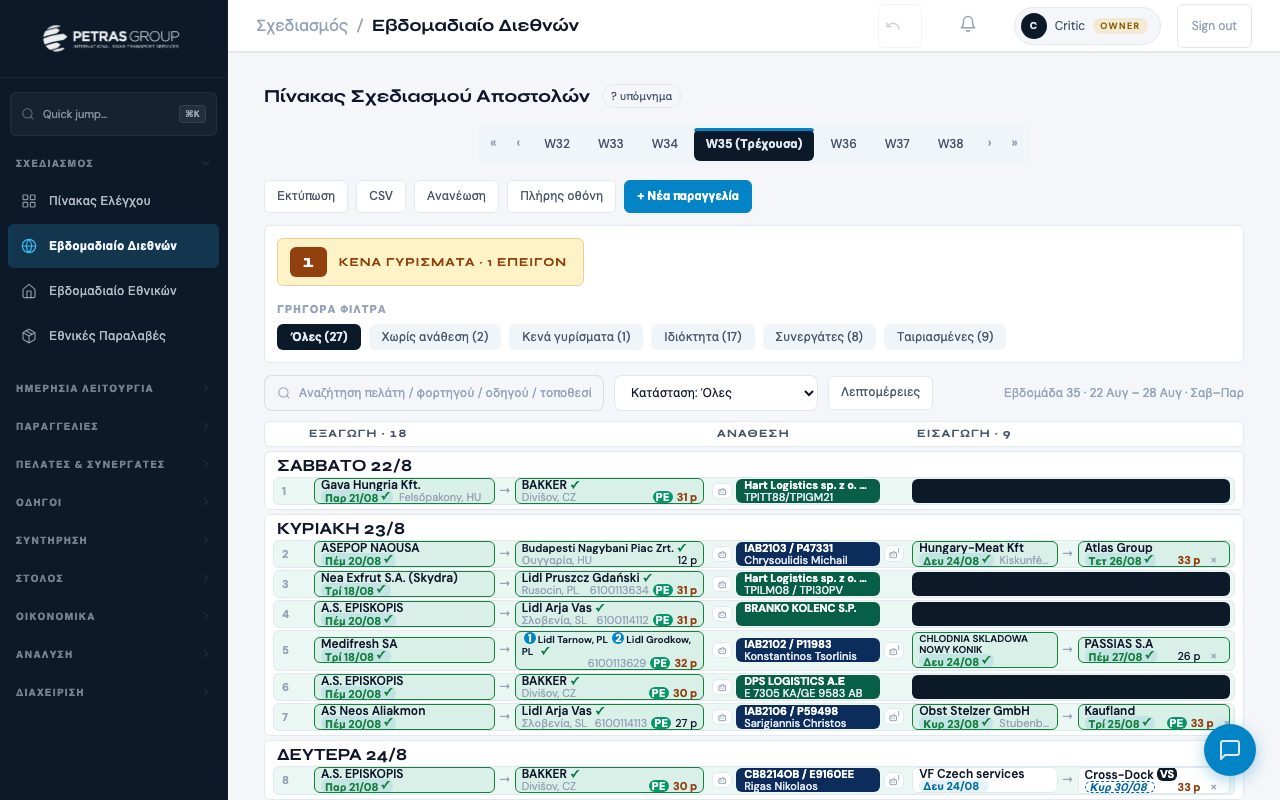
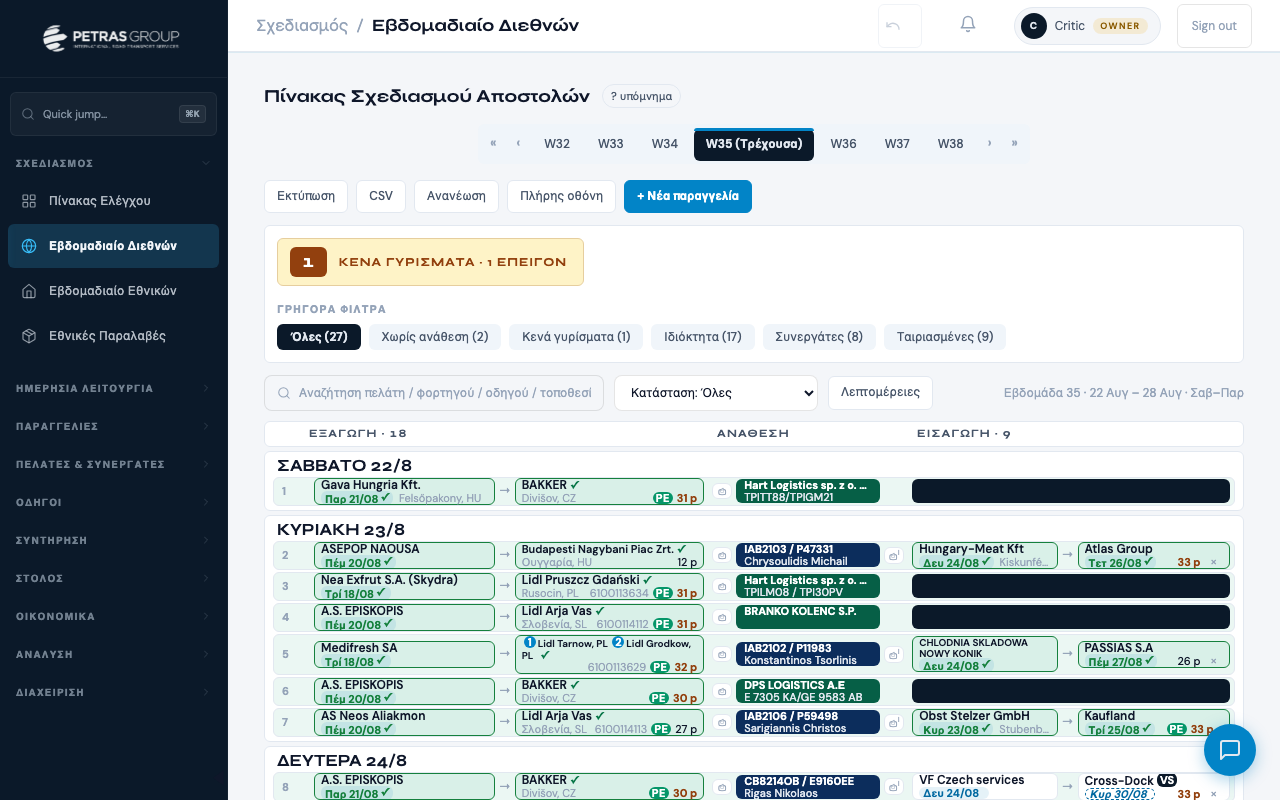
weekly_intl: όνομα με 1px περιθώριο για ουρές γραμμάτων (ελεγκτής P2)
Ο ανεξάρτητος ελεγκτής (P2): .wi2-name με line-height ίσο με το μέγεθος και
overflow:hidden κόβει ουρές ρ φ χ ψ y — επιβεβαιώθηκε σε μεγέθυνση 3x.
line-height 12→13px (γραμμή 28→29px). Αφαιρέθηκε και η κλάση .empty της
ημέρας, που έμεινε χωρίς κανόνα. Rig: πλήρεις γραμμές 7/11/15
(1280/1440/1920) έναντι 2/7/9 σήμερα.

Changed region(s): [[0.2188, 0.5938, 0.9688, 1.0]]

diff --git a/modules/weekly_intl.js b/modules/weekly_intl.js
@@ -303,9 +303,10 @@ const _WI2_CSS=`
 .wk3.wi2 .wk3-dayh .now{font:700 11px 'DM Sans',sans-serif;letter-spacing:1px;color:var(--surface-card);background:var(--accent);border:none;border-radius:var(--radius-full);padding:0 8px;line-height:16px}
 .wi2-none{font-size:11px;color:var(--text-dim);padding:4px 4px 0;font-style:italic}
 /* ΠΥΚΝΟΤΗΤΑ (owner 27/9, «dense»): περισσότερες γραμμές ανά οθόνη — οι
-   οθόνες των dispatchers είναι φαρδιές, όχι ψηλές. Γραμμή 44→28px: γραμμή 1px
-   + κάρτα 1px πάνω/κάτω, χωρίς padding, περιεχόμενο 24px = όνομα 12px +
-   σειρά μεταδεδομένων 12px. ΔΥΟ σειρές παραμένουν (owner): η μία σειρά θα
+   οθόνες των dispatchers είναι φαρδιές, όχι ψηλές. Γραμμή 44→29px: γραμμή 1px
+   + κάρτα 1px πάνω/κάτω, χωρίς padding, περιεχόμενο 25px = όνομα 13px (12px
+   γράμματα + 1px ώστε οι ουρές ρ φ χ ψ να μην κόβονται από το overflow:hidden)
+   + σειρά μεταδεδομένων 12px. ΔΥΟ σειρές παραμένουν (owner): η μία σειρά θα
    έκοβε πόλη/ημερομηνία/παλέτες. Μετρήθηκε στο rig: 1440×900 7→11 πλήρεις
    γραμμές, 1920×1080 9→15. Κάτω από 11px δεν κατεβαίνει τίποτα εκτός από την
    κλιμάκωση ονόματος της _wi2Balance. Κάθε padding εδώ είναι μετρημένο. */
@@ -377,7 +378,7 @@ const _WI2_CSS=`
    _wi2Balance κατεβάζει ΜΟΝΟ αυτό το όνομα ως 10px· αν ούτε έτσι, .clamp
    (δύο σειρές με ορατό «…» + title). Το ellipsis εδώ είναι δίχτυ, όχι
    σχέδιο: ποτέ σιωπηλή κοπή (Κ6), ακόμη και πριν προλάβει η μέτρηση. */
-.wi2-name{font-size:12px;line-height:12px;font-weight:600;color:var(--text);white-space:nowrap;overflow:hidden;text-overflow:ellipsis}
+.wi2-name{font-size:12px;line-height:13px;font-weight:600;color:var(--text);white-space:nowrap;overflow:hidden;text-overflow:ellipsis}
 .wi2-name>*{margin-right:4px}
 .wi2-name.clamp{white-space:normal;overflow-wrap:break-word;display:-webkit-box;-webkit-line-clamp:2;-webkit-box-orient:vertical;line-height:1.1}
 .wk3.wi2.wi2-measure .wi2-name,.wk3.wi2.wi2-measure .wi2-sub{white-space:nowrap;display:block;overflow:visible}
@@ -412,7 +413,7 @@ const _WI2_CSS=`
 .wk3.wi2 .wk3-assign>:not(.wk3-prt){grid-column:2;min-width:0}
 /* ΑΝΑΘΕΣΗ — χρώμα ΚΑΙ λέξη (DESIGN ΜΕΡΟΣ Ε, owner 4/9): «ΙΔ.» / «ΣΥΝ.» /
    «ΠΡΟΣ ΑΝΑΘΕΣΗ». Δύο σειρές με ορατό «…» και title — όχι αναδίπλωση, γιατί
-   μια τρίτη σειρά σπάει το ύψος γραμμής των 28px (27/9). */
+   μια τρίτη σειρά σπάει το ύψος γραμμής των 29px (27/9). */
 .wk3.wi2 .wk3-pill{height:auto;min-height:24px;flex-direction:column;align-items:flex-start;justify-content:center;gap:0;padding:0 8px;font-size:12px;line-height:12px;border-radius:var(--radius);white-space:nowrap;overflow:hidden;box-sizing:border-box;transform:none;box-shadow:none}
 .wk3.wi2 .wk3-row:hover .wk3-pill{transform:none;box-shadow:none}
 .wk3.wi2 .wk3-pill .t,.wk3.wi2 .wk3-pill small{display:block;max-width:100%;white-space:nowrap;overflow:hidden;text-overflow:ellipsis}
@@ -1124,7 +1125,7 @@ function _wiAllRowsHTML(){
     // Day counters (frame 368:966): what the day owes, in words
     const gExp=grp.exps.length;
     const empty=!gExp&&!showImps.length;
-    html+=`<section class="wi2-day${isToday?' today':''}${empty?' empty':''}" data-day="${grp.rawDate}">
+    html+=`<section class="wi2-day${isToday?' today':''}" data-day="${grp.rawDate}">
       <div class="wk3-dayh${isToday?' today':''}"><span class="d">${wd||'ΧΩΡΙΣ ΗΜΕΡΟΜΗΝΙΑ'}${dm?' '+dm:''}</span>${isToday?'<span class="now">ΣΗΜΕΡΑ</span>':''}</div>`;
     if(empty){ html+=`<div class="wi2-none">Καμία κίνηση — η κενή μέρα είναι πληροφορία, όχι απουσία</div></section>`; return; }
 

diff --git a/sw.js b/sw.js
@@ -7,7 +7,7 @@
 //   - Offline banner via postMessage to all clients
 // ═══════════════════════════════════════════════════════════
 
-const SW_VERSION = '1790531448';
+const SW_VERSION = '1790532085';
 
 // Το vendor/leaflet/* ΔΕΝ μπαίνει στο APP_SHELL επίτηδες: το pre-cache στο
 // install θα κατέβαζε 228 KB σε κάθε χρήστη, ακυρώνοντας το lazy loading της

diff --git a/app.html b/app.html
@@ -134,7 +134,7 @@
 <script src="core/rt-feed.js?v=1790106000"></script>
 <!-- 3. Modules -->
 <script src="modules/dashboard.js?v=1788720070"></script>
-<script src="modules/weekly_intl.js?v=1790531448"></script>
+<script src="modules/weekly_intl.js?v=1790532085"></script>
 <script src="modules/weekly_natl.js?v=1789387831"></script>
   <script src="modules/daily_ramp.js?v=1789328870"></script>
   <script src="modules/costs.js?v=1790108919"></script>
